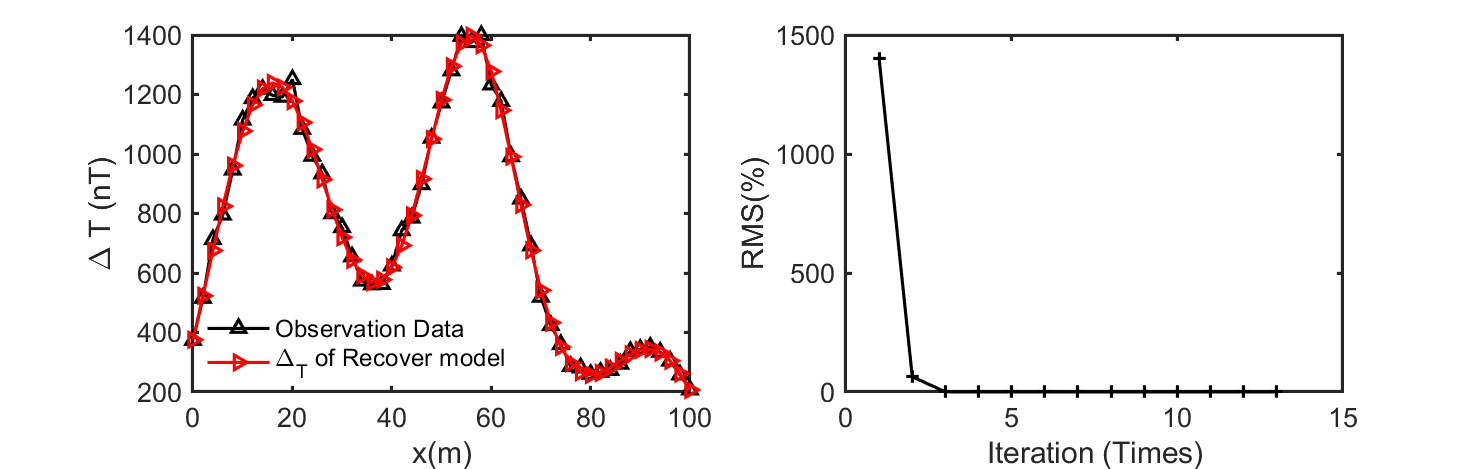
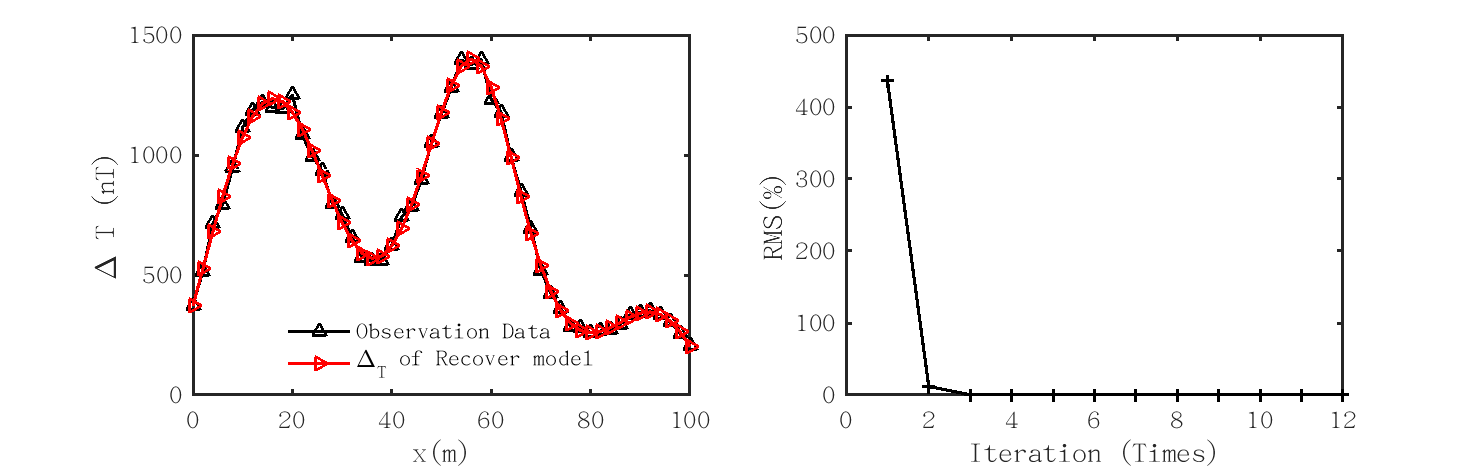
invert Zup and M

diff --git a/Inversion_with_Zup_and_M.m b/Inversion_with_Zup_and_M.m
@@ -37,20 +37,19 @@ maxit = 20;
 % Tolerance
 global TOL;
 global misfit_target;
-TOL = 1e-5;
-misfit_target = 0.3; % \Phi_d/ Number of observation
+TOL = 1e-3;
+misfit_target = 1; % \Phi_d/ Number of observation
 % Constant lambda for 'gauss_newton_inversion.m'
 lambda = 1;
-mu = 0.2;
 % Intital number of regularization factor 
 max_lambda = 100;
-num_lambda = 20;
+num_lambda = 10;
 % Cooling coefficient 
 cooling_rate = 0.6;
 % Calculate data covariance matrix -Wd- and model covariance matrix -Wm- 
 % Wd
 N_Wd = size(observation_Delta_T, 1);
-N_Wm = size(inv_N, 1);
+N_Wm = inv_N;
 global W_d;
 global W_m;
 W_d = zeros(N_Wd, N_Wd);
@@ -78,72 +77,19 @@ end
 %% Start inversion
 % inversion model magnetization M --> M and model_z_up --> m_0
 W_m = W_m_2;
-M_0 = 1;
+M_0 = 0;
 m_0 = inv_z_buttom/2 * ones(inv_N, 1);
 
 tic % 计时
-lambda = max_lambda;
-I = ones(size(m_0, 1));  % A [MM * MM] unit matrix
-[Hax_m0, Za_m0, delta_T_m0] = magnetic_forward_2D_Guan(x_observation, z_observation,...
-                                                inv_x_left, inv_x_right, m_0, inv_z_buttom, M_0, Is);
-    Rms(1, 1) = ((observation_Delta_T - delta_T_m0)'...
-                        *(W_d' * W_d)*(observation_Delta_T - delta_T_m0))/(length(observation_Delta_T));
-    disp(['Lambda = ', num2str(lambda), '       ', 'misfit = ', num2str(Rms(1, 1))]);
-for k = 1 : num_lambda
-    for j = 1 : maxit
-        [Hax_m0_k, Za_m0_k, delta_T_m0_k] = magnetic_forward_2D_Guan(x_observation, z_observation,...
-                                                inv_x_left, inv_x_right, m_0, inv_z_buttom, 1, Is);
-        %  update of m_{k+1}   equation(16)
-        M_next = (observation_Delta_T' * delta_T_m0_k) / (delta_T_m0_k' * delta_T_m0_k);
-        % Calculate Jacobian matrix  A[k] of the froward function with respect to the top verctor model_z_up.
-        [A_k] = compute_jacobi(x_observation, z_observation,...
-                                 inv_x_left, inv_x_right, m_0, inv_z_buttom, M_0, Is);
-        J_k = -2 * A_k' * (W_d' * W_d) * (observation_Delta_T - M_0 * delta_T_m0) + 2 * lambda * (W_m' * W_m) * (m_0 - m_ref);  % equation (8)
-        H_k = 2 * A_k' * (W_d' * W_d) * A_k + 2 * lambda * (W_m' * W_m);   % equation (11)
-        delta_m = - pinv(H_k) * J_k;   %equation (17)
-        if (max(delta_m) > 0 || min(delta_m) < inv_z_buttom) % 上下限约束
-                delta_m = (max(delta_m) + 1 - delta_m)./ (max(delta_m) - min(delta_m)) * (inv_z_buttom);
-        end
-        M_0 = M_next;
-        m_0 = m_0 - delta_m;
-        if (max(m_0) > 0 || min(m_0) < inv_z_buttom) % 上下限约束
-                m_0 = (max(m_0) + 1 - m_0)./ (max(m_0) - min(m_0)) * (inv_z_buttom);
-        end
-        [Hax_m0, Za_m0, delta_T_m0] = magnetic_forward_2D_Guan(x_observation, z_observation,...
-                                                inv_x_left, inv_x_right, m_0, inv_z_buttom, M_0, Is);
-        Rms(k, j + 1) = ((observation_Delta_T - delta_T_m0)'...
-                         *(W_d' * W_d)*(observation_Delta_T - delta_T_m0))/(length(observation_Delta_T));
-        misfit_last = Rms(k, j + 1); 
-        disp(['Lambda = ', num2str(lambda), '       ', 'misfit = ', num2str(Rms(k, j + 1))]);
-        if Rms(k, j + 1) < misfit_target
-                disp('Stop, because the target misift has been achieved!');
-                break;
-        elseif Rms(k, j + 1) > Rms(k, j)
-            disp('Stop, because the misift start increase!');
-%                 m_0 = m_0 + delta_m;
-            lambda = cooling_rate * lambda;
-            break;
-        elseif abs(Rms(k, j + 1) - Rms(k, j)) < TOL
-            disp('Stop, because the misift stagnated!');
-            lambda = cooling_rate * lambda;
-            break;
-        end
-        j = j+1;
-    end
-    if misfit_last < misfit_target
-            break;
-    end
-    if k == num_lambda
-        disp('Stop, because the max iterative number has been achieved!');
-        break;
-    end
-end
-recover_M = M_0*ones(inv_N,1);
-recover_model = m_0;
+[recover_model, recover_M, Rms] = invert_z_up_and_M(maxit, max_lambda, num_lambda, cooling_rate,...
+                                        observation_Delta_T, x_observation, ...
+                                        z_observation, inv_x_left, inv_x_right,...
+                                        m_0, inv_z_buttom, M_0, Is, m_ref);
+
 toc
 [recover_model_Hax, recover_model_Za, recover_model_delta_T]=... 
                 magnetic_forward_2D_Guan(x_observation, z_observation, inv_x_left,...
-                                    inv_x_right, recover_model, inv_z_buttom, recover_M, Is);
+                            inv_x_right, recover_model, inv_z_buttom, recover_M, Is);
                                 
 %% plot section
 % plot settings

diff --git a/invert_z_up_and_M.m b/invert_z_up_and_M.m
@@ -1,0 +1,73 @@
+% ********************************************************* %
+% ***************   Gauss_Newton Inversion  *************** %
+% ***************      Cooling  Lambda      *************** %
+% ********************************************************* %
+
+function [recover_model, recover_M, Rms] = invert_z_up_and_M(maxit, max_lambda, num_lambda, cooling_rate,...
+                                        observation_Delta_T, x_observation, ...
+                                        z_observation, inv_x_left, inv_x_right,...
+                                        m_0, inv_z_buttom, M_0, Is,m_ref)
+    global W_d;
+    global W_m;
+    global TOL;
+    global misfit_target;
+    lambda = max_lambda;
+    I = ones(size(m_0, 1));  % A [MM * MM] unit matrix
+    [Hax_m0, Za_m0, delta_T_m0] = magnetic_forward_2D_Guan(x_observation, z_observation,...
+                                                    inv_x_left, inv_x_right, m_0, inv_z_buttom, M_0, Is);
+        Rms(1, 1) = ((observation_Delta_T - delta_T_m0)'...
+                            *(W_d' * W_d)*(observation_Delta_T - delta_T_m0))/(length(observation_Delta_T));
+        disp(['Lambda = ', num2str(lambda), '       ', 'misfit = ', num2str(Rms(1, 1))]);
+        misfit_last = Rms(1,1);
+    for k = 1 : num_lambda
+        for j = 1 : maxit
+            misfit_last_last = misfit_last;
+            [Hax_m0, Za_m0, delta_T_m0] = magnetic_forward_2D_Guan(x_observation, z_observation,...
+                                                    inv_x_left, inv_x_right, m_0, inv_z_buttom, 1, Is);
+            %  update of m_{k+1}   equation(16)
+            M_next = (observation_Delta_T' * delta_T_m0) / (delta_T_m0' * delta_T_m0);
+            M_update(k,j) = M_next;
+            % Calculate Jacobian matrix  A[k] of the froward function with respect to the top verctor model_z_up.
+            [A_k] = compute_jacobi(x_observation, z_observation,...
+                                     inv_x_left, inv_x_right, m_0, inv_z_buttom, M_0, Is);
+            J_k = - 2 * A_k' * (W_d' * W_d) * (observation_Delta_T - M_0 * delta_T_m0)...
+                  + 2 * lambda * (W_m' * W_m) * (m_0 - m_ref);                          % equation (8)
+            H_k = 2 * A_k' * (W_d' * W_d) * A_k + 2 * lambda * (W_m' * W_m);                % equation (11)
+            delta_m = -pinv(H_k) * J_k;                                              %equation (17)
+            M_0 = M_next;
+            m_0 = m_0 + delta_m;
+            if (max(m_0) > 0 || min(m_0) < inv_z_buttom) % 上下限约束
+                    m_0 = (max(m_0) + 1 - m_0)./ (max(m_0) - min(m_0)) * (inv_z_buttom);
+            end
+            [Hax_m0, Za_m0, delta_T_m0] = magnetic_forward_2D_Guan(x_observation, z_observation,...
+                                                    inv_x_left, inv_x_right, m_0, inv_z_buttom, M_0, Is);
+            Rms(k, j + 1) = ((observation_Delta_T - delta_T_m0)'...
+                             *W_d' * W_d*(observation_Delta_T - delta_T_m0))/(length(observation_Delta_T));
+            misfit_last = Rms(k, j + 1);
+            disp(['Lambda = ', num2str(lambda), '       ', 'misfit = ', num2str(Rms(k, j + 1))]);
+            if misfit_last < misfit_target
+                    disp('Stop, because the target misift has been achieved!');
+                    break;
+            elseif misfit_last > misfit_last_last
+                disp('Stop, because the misift start increase!');
+    %                 m_0 = m_0 + delta_m;
+                lambda = cooling_rate * lambda;
+                break;
+            elseif abs(misfit_last - misfit_last_last) < TOL
+                disp('Stop, because the misift stagnated!');
+                lambda = cooling_rate * lambda;
+                break;
+            end
+        end
+        if misfit_last < misfit_target
+            break;
+        end
+        if k == num_lambda
+            disp('Stop, because the max iterative number has been achieved!');
+        break;
+        end
+
+    end
+    recover_M = M_0*ones(size(m_0, 1),1);
+    recover_model = m_0;
+end

diff --git a/gauss_newton_inversion_cool.m b/gauss_newton_inversion_cool.m
@@ -14,12 +14,13 @@ function [recover_model, Rms] = gauss_newton_inversion_cool(maxit, max_lambda, n
     lambda = max_lambda;
     [Hax_m0, Za_m0, delta_T_m0] = magnetic_forward_2D_Guan(x_observation, z_observation,...
                                                 inv_x_left, inv_x_right, m_0, inv_z_buttom, M, Is);
-    Rms(1, 1) = ((observation_Delta_T - delta_T_m0)'*W_d'...
+    Rms(1, 1) = ((observation_Delta_T - delta_T_m0)'* W_d'...
                         *W_d*(observation_Delta_T - delta_T_m0))/(length(observation_Delta_T));
     disp(['Lambda = ', num2str(lambda), '       ', 'misfit = ', num2str(Rms(1, 1))]);
+    misfit_last = Rms(1,1);
     for k = 1 : n_lambda
-        
         for i = 1:maxit
+            misfit_last_last = misfit_last;
             [J] = compute_jacobi(x_observation, z_observation,...
                                  inv_x_left, inv_x_right, m_0, inv_z_buttom, M, Is);
             g_k = - J' * (W_d' * W_d) * (observation_Delta_T - delta_T_m0) ...
@@ -34,17 +35,17 @@ function [recover_model, Rms] = gauss_newton_inversion_cool(maxit, max_lambda, n
                                             inv_x_left, inv_x_right, m_0, inv_z_buttom, M, Is);
             Rms(k, i + 1) = ((observation_Delta_T - delta_T_m0)'*W_d'...
                             *W_d*(observation_Delta_T - delta_T_m0))/(length(observation_Delta_T));
-            misfit_last = Rms(k, i + 1);            
+            misfit_last = Rms(k, i + 1);
             disp(['Lambda = ' num2str(lambda) '       ' 'misfit = ' num2str(Rms(k, i + 1))]);
-            if Rms(k, i + 1) < misfit_target
+            if misfit_last < misfit_target
                 disp('Stop, because the target misift has been achieved!');
                 break;
-            elseif Rms(k, i + 1) > Rms(k, i)
+            elseif misfit_last > misfit_last_last
                 disp('Stop, because the misift start increase!');
 %                 m_0 = m_0 + delta_m;
                 lambda = cooling_rate * lambda;
                 break;
-            elseif abs(Rms(k, i + 1) - Rms(k, i)) < TOL
+            elseif abs(misfit_last - misfit_last_last) < TOL
                 disp('Stop, because the misift stagnated!');
                 lambda = cooling_rate * lambda;
                 break;

diff --git a/Inversion_main.m b/Inversion_main.m
@@ -12,7 +12,7 @@ load magnetic_responce.mat
 %% %%%%%%%%%%%%%%%%%   Inversion progress    %%%%%%%%%%%%%%%%% 
 % Inversion parameter
 % magnetization amplitude; Unit : (A/m)
-inv_M = 15;
+inv_M = 10;
 % Magnetized direction; Unit : degree(。)
 Is = 90;
 I0 = 90;
@@ -42,11 +42,11 @@ m_0 = inv_z_buttom/2 * ones(inv_N, 1);
 % Reference model
 m_ref = 0 * ones(inv_N, 1);
 % Maximum number of iterations 
-maxit = 30; 
+maxit = 20; 
 % Tolerance
 global TOL;
 global misfit_target;
-TOL = 1e-5;
+TOL = 1e-2;
 misfit_target = 0.3; % \Phi_d/ Number of observation
 % Constant lambda for 'gauss_newton_inversion.m'
 lambda = 1;
@@ -94,7 +94,7 @@ tic % 计时
 [recover_model, Rms] = gauss_newton_inversion_cool(maxit, max_lambda, num_lambda, cooling_rate,...
                                         observation_Delta_T, x_observation, ...
                                         z_observation, inv_x_left, inv_x_right,...
-                                        m_0, inv_z_buttom, inv_M, Is,m_ref);                        
+                                        m_0, inv_z_buttom, inv_M, Is,m_ref);    
 % for i = 1: maxit
 %      [J] = compute_jacobi(x_observation, z_observation, inv_x_left, inv_x_right, m_0, inv_z_buttom, M, Is);
 %      [Hax_m0, Za_m0, delta_T_m0] = magnetic_forward_2D_Guan(x_observation, z_observation, inv_x_left, inv_x_right, m_0, inv_z_buttom, M, Is);

diff --git a/magnetic_forward_2D.m b/magnetic_forward_2D.m
@@ -52,7 +52,7 @@ function [Hax, Za, delta_T] = magnetic_forward_2D(x, z, x_min, x_max, z_up, z_do
     assert(N_x_min == N_z_down)
     N_M = size(M, 1);
     if (N_M == 1)
-        M = M * ones(N_z_up);
+        M = M * ones(N_z_up, 1);
     elseif (N_M ~= N_z_up)
         disp('The dimensions of the input prism are inconsistent !')
     end

diff --git a/magnetic_forward_2D_Guan.m b/magnetic_forward_2D_Guan.m
@@ -52,7 +52,7 @@ function [Hax, Za, delta_T] = magnetic_forward_2D_Guan(x, z, x_min, x_max, z_up,
     assert(N_x_min == N_z_down)
     N_M = size(M, 1);
     if (N_M == 1)
-        M = M * ones(N_z_up);
+        M = M * ones(N_z_up, 1);
     elseif (N_M ~= N_z_up)
         disp('The dimensions of the input prism are inconsistent !')
     end

diff --git a/Data_produce.m b/Data_produce.m
@@ -45,7 +45,7 @@ end
 M = M * ones(N,1);   % constant
 % M = y';              % ploynamial
 % Random data in peaks(N) : n
-n = 36; 
+n = 44; 
 grid = peaks(N);
 % Original model 
 model_z_up = average_depth - 3 * grid(:, n) + 5;
